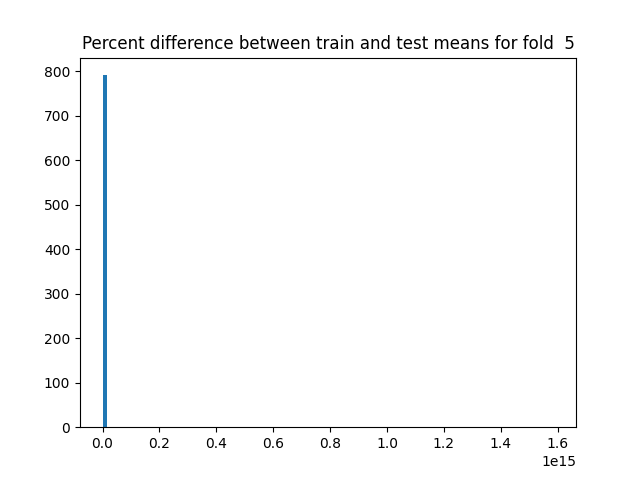
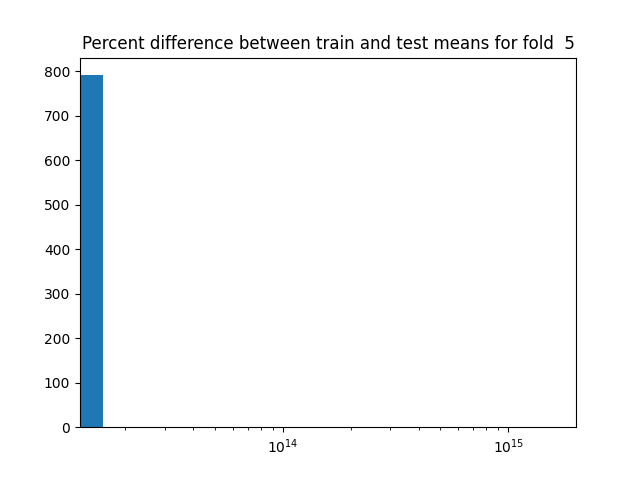
log scale

diff --git a/split_stats.py b/split_stats.py
@@ -37,6 +37,7 @@ for fold, (train_idx, val_idx) in enumerate(splits.split(np.arange(5070))):
 
     #want variance among each feature --> axis = 0
     plt.title("Percent difference between train and test variances for fold " + str(fold + 1))
+    plt.xscale("log")
     plt.hist(var_perc_diff, bins=100)
     plt.savefig("stats_plots/var_"+str(fold+1))
     plt.clf()
@@ -47,6 +48,7 @@ for fold, (train_idx, val_idx) in enumerate(splits.split(np.arange(5070))):
     mean_perc_diff = mean_with_nan[~np.isnan(mean_with_nan)]
 
     plt.title("Percent difference between train and test means for fold  " + str(fold + 1))
+    plt.xscale("log")
     plt.hist(mean_perc_diff, bins=100)
     plt.savefig("stats_plots/mean_"+str(fold+1))
     plt.clf()
